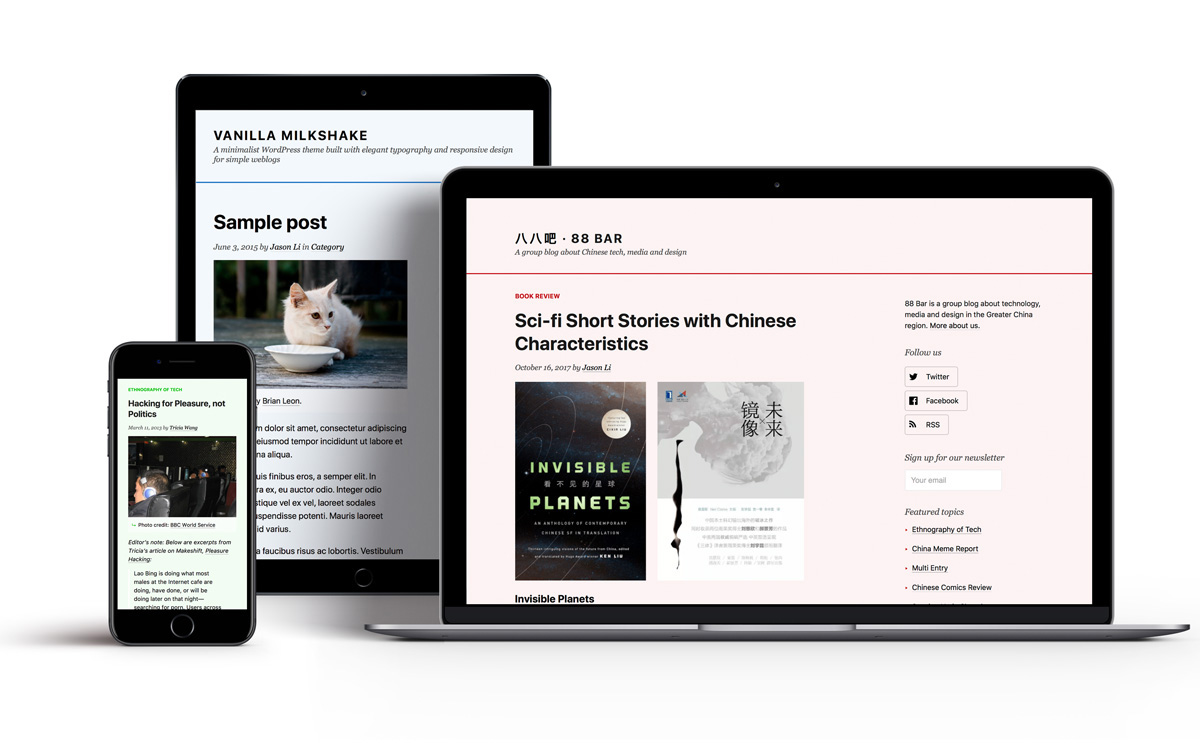
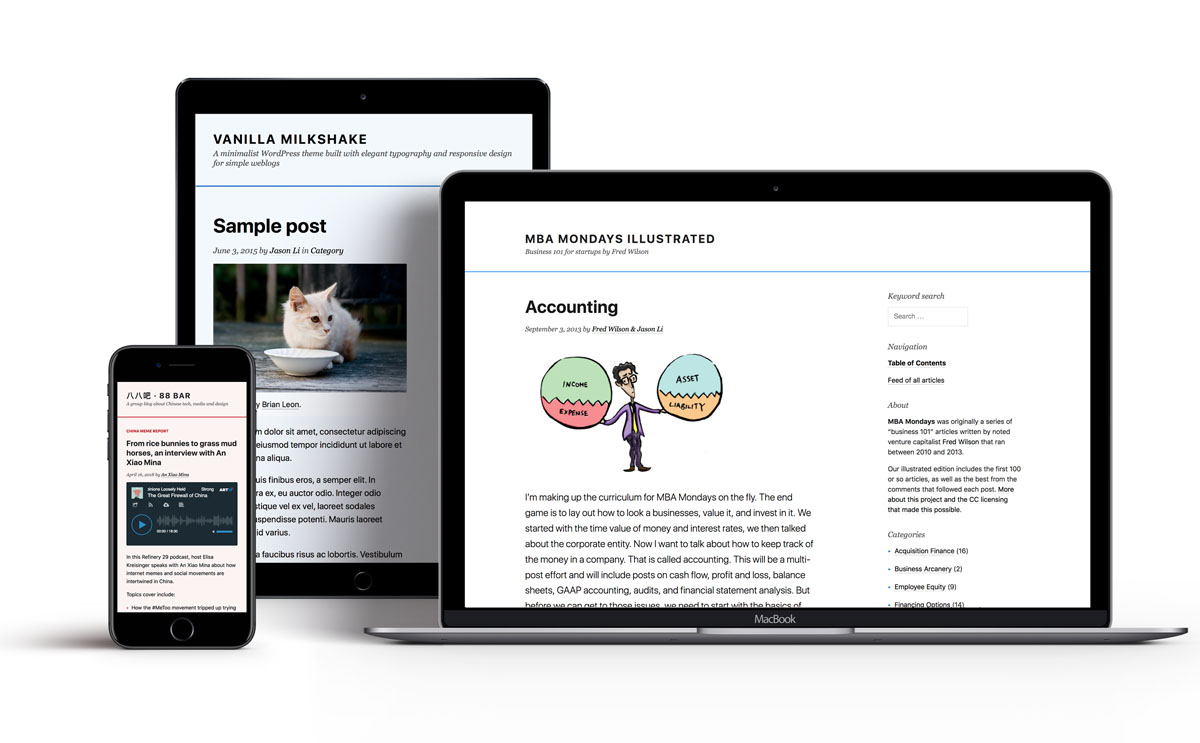
White background support + refined typography

Changed region(s): [[0.1542, 0.0929, 1.0, 0.8668], [0.0308, 0.2786, 0.37, 0.8977], [0.3392, 0.2476, 0.37, 0.2786]]

diff --git a/style.css b/style.css
@@ -76,6 +76,11 @@ input[type="submit"]:focus {
 }
 @media screen and (min-width: 42em) {
   .container {max-width: 64em;}
+  .nested-copy-font-weight p,
+  .nested-copy-font-weight ul,
+  .nested-copy-font-weight ol {
+    font-weight: 300;
+  }
 }
 @media screen and (min-width: 48em) and (max-width: 64em) {
   html {font-size: 100%;}
@@ -145,7 +150,7 @@ figure {
 .nested-copy-line-height p,
 .nested-copy-line-height ul,
 .nested-copy-line-height ol {
-  line-height: 1.5;
+  line-height: 1.6;
 }
 
 .nested-headline-line-height h1,

diff --git a/inc/customizer.php b/inc/customizer.php
@@ -26,6 +26,11 @@
 	        'sanitize_callback' => 'sanitize_hex_color'
 	      )
 	    );
+	    $wp_customize->add_setting( 
+	      'bg_color', array(
+	      'type' => 'option',
+	      'capability' => 'edit_theme_options'
+	    ) );
 	    // CONTROLS
 	    $wp_customize->add_control(
 	      new WP_Customize_Color_Control(
@@ -36,6 +41,13 @@
 	        'settings' => $color['slug'])
 	      )
 	    );
+	    $wp_customize->add_control( 
+	      'bg_color', array(
+	      	'type' => 'checkbox',
+	      	'section' => 'colors', // Add a default or your own section
+	      	'label' => __( 'White background (less accessible)?' ),
+	    ) );
+
 	  }
 	}
 	add_action( 'customize_register', 'vanillamilkshake_theme_customize_register' );
@@ -45,24 +57,38 @@
 
 	function vanillamilkshake_theme_customizer_styles()
 	{
+		$white_bg_yes = get_option('bg_color');
 		$theme_color = get_option('theme_color');
+		
 		if (empty($theme_color)) { $theme_color = "#006CCC"; }
 		$hsl_theme_color = hex2hsl($theme_color);
+		$theme_color_lighter = hsl2hex(array($hsl_theme_color[0], 0.9, 0.67));
+		$theme_color_darker = hsl2hex(array($hsl_theme_color[0], 0.9, 0.4));
 
-		$theme_color = hsl2hex(array($hsl_theme_color[0], 0.9, 0.4));
-		$theme_color_lightest = hsl2hex(array($hsl_theme_color[0], 0.6, 0.97));
+		if ($white_bg_yes == true) {
+			$theme_color_lightest = "#ffffff";
+			$theme_color = $theme_color_lighter;
+			$background_color_hr = "#eeeeee;";
+		} else {
+			$theme_color_lightest = hsl2hex(array($hsl_theme_color[0], 0.6, 0.97));
+			$theme_color = $theme_color_darker;
+			$background_color_hr = "#ffffff;";
+		}
+
 
 	 	echo "<style>
+	 			.backgroundcolor-hr { background-color: ".$background_color_hr.";}
 	 			.backgroundcolor-themecolor { background-color: ".$theme_color.";}
 	 			.backgroundcolor-themecolorlightest { background-color: ".$theme_color_lightest.";}
 	 			.nested-list ul > li:before,
 	 		  	 .wp-caption-text:before,
-	 		  	 .themecolor { color:".$theme_color.";}
+	 		  	 .themecolor { color: ".$theme_color_darker.";}
 	 			.page-numbers,
 	 			 .page-links > a,
 				 a.more-link, a > .button,
   				 a.more-link:link, a > .button:link
-  				 { border-color: ".$theme_color.";}
+  				 { border-color: ".$theme_color_darker." ; }
+  				 .nested-hr hr { border-color: ".$background_color_hr."; }
 	 		 </style>";
 	}
 	add_action('wp_head', 'vanillamilkshake_theme_customizer_styles', 100);

diff --git a/content-page.php b/content-page.php
@@ -10,7 +10,7 @@
 		<?php the_title( '<h1 class="entry-title f3 f2-ns b sans-serif margintop-none marginbottom-xsmall">', '</h1>' ); ?>
 	</header><!-- .entry-header -->
 
-	<div class="entry-content f5 f4-l measure nested-copy-line-height nested-headline-sansserif nested-headline-line-height nested-img nested-figure nested-embeds nested-hr nested-code nested-list nested-blockquote nested-dt nested-table nested-link">
+	<div class="entry-content f5 f4-l measure nested-copy-line-height nested-copy-font-weight nested-headline-sansserif nested-headline-line-height nested-img nested-figure nested-embeds nested-hr nested-code nested-list nested-blockquote nested-dt nested-table nested-link">
 		<?php the_content(); ?>
 		<?php
 			wp_link_pages( array(

diff --git a/comments.php b/comments.php
@@ -42,7 +42,7 @@ if ( post_password_required() ) {
 		</nav><!-- #comment-nav-above -->
 		<?php endif; // Check for comment navigation. ?>
 
-		<div class="nested-copy-line-height">
+		<div class="nested-copy-line-height nested-copy-font-weight">
 			<ol class="marginleft-none comment-list nested-headline-line-height nested-hr nested-code nested-list nested-blockquote nested-dt nested-table nested-link">
 				<?php
 					wp_list_comments( array(
@@ -78,4 +78,4 @@ if ( post_password_required() ) {
 	</div>
 
 </div><!-- #comments -->
-<div class="marginvertical-medium height-xsmall backgroundcolor-white"></div>
+<div class="marginvertical-medium height-xsmall backgroundcolor-hr"></div>

diff --git a/content.php b/content.php
@@ -81,7 +81,7 @@
 
 	</header><!-- .entry-header -->
 
-	<div class="f5 f4-l measure nested-copy-line-height nested-headline-sansserif nested-headline-line-height nested-img nested-figure nested-embeds nested-hr nested-code nested-list nested-blockquote nested-dt nested-table nested-link nested-form">
+	<div class="f5 f4-l measure nested-copy-line-height nested-copy-font-weight nested-headline-sansserif nested-headline-line-height nested-img nested-figure nested-embeds nested-hr nested-code nested-list nested-blockquote nested-dt nested-table nested-link nested-form">
 		<?php
 			if ( is_single() ) :
 				/* translators: %s: Name of current post */

diff --git a/footer.php b/footer.php
@@ -7,7 +7,7 @@
 ?>
 		</div><!-- .site-content -->
 		<div class="clearfix clear-both display-none-ns"></div> <!-- not sure why the below line doesn't work without this line -->
-		<div class="height-xsmall backgroundcolor-white margintop-medium marginbottom-small display-none-ns"></div>
+		<div class="height-xsmall backgroundcolor-hr margintop-medium marginbottom-small display-none-ns"></div>
 
 		<div id="sidebar" class="sidebar width-30p-ns paddingtop-medium paddingleft-large-ns float-left clear-right f7-ns f6-l">
 			<?php get_sidebar(); ?>

diff --git a/search.php b/search.php
@@ -13,7 +13,7 @@ get_header(); ?>
 			<header class="page-header margintop-none marginbottom-large ">
 				<h1 class="page-title margintop-none sans-serif f3 lightestgreytext"><?php printf( __( 'Search Results for: %s', 'vanillamilkshake' ), get_search_query() ); ?></h1>
 			</header><!-- .page-header -->
-			<div class="height-xsmall backgroundcolor-white marginbottom-large"></div>
+			<div class="height-xsmall backgroundcolor-hr marginbottom-large"></div>
 
 			<?php if ( is_paged() ) :
 				// Previous/next page navigation.

diff --git a/archive.php b/archive.php
@@ -23,7 +23,7 @@ get_header(); ?>
 					the_archive_description( '<div class="taxonomy-description">', '</div>' );
 				?>
 			</header><!-- .page-header -->
-			<div class="height-xsmall backgroundcolor-white marginbottom-large"></div>
+			<div class="height-xsmall backgroundcolor-hr marginbottom-large"></div>
 
 			<?php if ( is_paged() ) :
 				// Previous/next page navigation.
